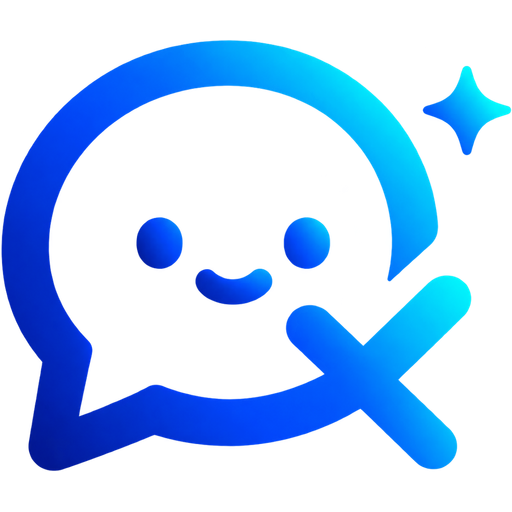
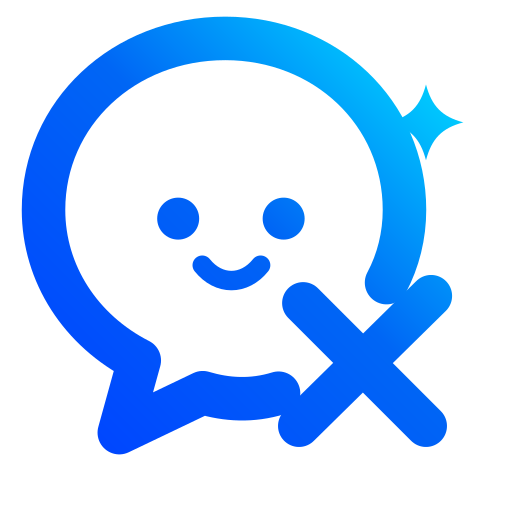
Polish Levix brand assets and control panel UI

diff --git a/public/dashboard.css b/public/dashboard.css
@@ -3,17 +3,17 @@
    choice in localStorage and stamps data-theme on <html>. */
 
 :root {
-  --blue: #1652f0;
-  --blue-bright: #14a6ff;
-  --cyan: #21d4fd;
+  --blue: #0066f5;
+  --blue-bright: #3d8bff;
+  --cyan: #00d4ff;
   --grad: linear-gradient(135deg, var(--blue) 0%, var(--blue-bright) 55%, var(--cyan) 100%);
 
-  --bg: #070d1c;
-  --bg-soft: #0b142a;
-  --panel: #0e1a33;
-  --panel-hover: #16234180;
-  --line: #1d2c4d;
-  --line-soft: #16223c;
+  --bg: #04070e;
+  --bg-soft: #070c17;
+  --panel: #0a101e;
+  --panel-hover: #111a2e;
+  --line: #1c2a48;
+  --line-soft: #16213a;
 
   --text: #eaf1ff;
   --muted: #8ea3c9;
@@ -26,11 +26,12 @@
 
   --radius: 14px;
   --radius-sm: 9px;
-  --shadow: 0 10px 30px rgba(0, 0, 0, 0.35);
+  --shadow: 0 14px 36px rgba(0, 0, 0, 0.24);
   --mono: ui-monospace, SFMono-Regular, "SF Mono", Menlo, Consolas, monospace;
 }
 
 :root[data-theme="light"] {
+  color-scheme: light;
   --bg: #f5f7fc;
   --bg-soft: #ffffff;
   --panel: #ffffff;
@@ -41,7 +42,7 @@
   --text: #0d1730;
   --muted: #566484;
   --faint: #8492ad;
-  --shadow: 0 8px 24px rgba(16, 34, 74, 0.08);
+  --shadow: 0 10px 28px rgba(16, 34, 74, 0.07);
 }
 
 * {
@@ -55,6 +56,10 @@ body {
   height: 100%;
 }
 
+html {
+  color-scheme: dark;
+}
+
 body {
   background: var(--bg);
   color: var(--text);
@@ -63,6 +68,16 @@ body {
   font-size: 15px;
   line-height: 1.55;
   -webkit-font-smoothing: antialiased;
+}
+
+::selection {
+  background: color-mix(in srgb, var(--cyan) 28%, transparent);
+  color: var(--text);
+}
+
+:focus-visible {
+  outline: 2px solid var(--cyan);
+  outline-offset: 3px;
 }
 
 a {
@@ -103,13 +118,14 @@ kbd {
   display: flex;
   align-items: center;
   gap: 11px;
-  padding: 20px 18px 16px;
+  margin: 0 10px;
+  padding: 20px 8px 17px;
+  border-bottom: 1px solid var(--line-soft);
 }
 
 .brand img {
-  width: 38px;
-  height: 38px;
-  border-radius: 11px;
+  width: 40px;
+  height: 40px;
 }
 
 .brand-name {
@@ -123,6 +139,25 @@ kbd {
   color: var(--faint);
   text-transform: uppercase;
   letter-spacing: 0.09em;
+}
+
+.brand-lockup {
+  display: inline-flex;
+  align-items: center;
+  justify-content: center;
+  gap: 11px;
+  color: var(--text);
+}
+
+.brand-lockup img {
+  width: 46px;
+  height: 46px;
+}
+
+.brand-lockup strong {
+  font-size: 1.65rem;
+  font-weight: 750;
+  letter-spacing: -0.04em;
 }
 
 .nav {
@@ -208,9 +243,10 @@ kbd {
 }
 
 .content {
-  padding: 26px;
-  max-width: 1180px;
+  padding: 30px;
+  max-width: 1240px;
   width: 100%;
+  margin: 0 auto;
 }
 
 .view {
@@ -330,7 +366,7 @@ kbd {
   border: 1px solid var(--line);
   border-radius: var(--radius);
   padding: 18px;
-  box-shadow: var(--shadow);
+  box-shadow: none;
 }
 
 .card + .card {
@@ -360,6 +396,8 @@ kbd {
 
 .section-head {
   margin-bottom: 18px;
+  padding-inline-start: 13px;
+  border-inline-start: 2px solid var(--blue-bright);
 }
 
 .section-head h2 {
@@ -443,6 +481,7 @@ select:focus,
 textarea:focus {
   outline: none;
   border-color: var(--blue-bright);
+  box-shadow: 0 0 0 3px color-mix(in srgb, var(--blue-bright) 14%, transparent);
 }
 
 textarea {
@@ -774,6 +813,16 @@ td.wrap {
   display: none;
 }
 
+.sidebar-backdrop {
+  display: none;
+  position: fixed;
+  inset: 0;
+  z-index: 50;
+  border: 0;
+  background: rgba(2, 5, 12, 0.64);
+  backdrop-filter: blur(2px);
+}
+
 @media (max-width: 900px) {
   .shell {
     grid-template-columns: 1fr;
@@ -792,6 +841,10 @@ td.wrap {
     transform: none;
   }
 
+  .sidebar-backdrop.open {
+    display: block;
+  }
+
   .menu-btn {
     display: inline-flex;
   }
@@ -802,5 +855,27 @@ td.wrap {
 
   .topbar {
     padding: 12px 14px;
+  }
+}
+
+@media (max-width: 600px) {
+  .topbar {
+    gap: 8px;
+  }
+
+  .topbar h1 {
+    display: none;
+  }
+
+  .topbar .pill {
+    padding-inline: 9px;
+  }
+
+  .stats {
+    grid-template-columns: repeat(2, minmax(0, 1fr));
+  }
+
+  .grid-2 {
+    grid-template-columns: 1fr;
   }
 }

diff --git a/public/dashboard.js b/public/dashboard.js
@@ -88,7 +88,12 @@
 
   function applyTheme(theme) {
     document.documentElement.setAttribute("data-theme", theme);
-    $("#theme-btn").textContent = theme === "light" ? "☾" : "☀";
+    const button = $("#theme-btn");
+    button.textContent = theme === "light" ? "☾" : "☀";
+    button.setAttribute(
+      "aria-label",
+      theme === "light" ? "Switch to dark theme" : "Switch to light theme"
+    );
     try {
       localStorage.setItem(THEME_KEY, theme);
     } catch {
@@ -118,6 +123,16 @@
   const VIEWS = {};
   let currentView = null;
 
+  function setSidebar(open) {
+    $(".sidebar").classList.toggle("open", open);
+    $("#sidebar-backdrop").classList.toggle("open", open);
+    $("#menu-btn").setAttribute("aria-expanded", String(open));
+    $("#menu-btn").setAttribute(
+      "aria-label",
+      open ? "Close navigation" : "Open navigation"
+    );
+  }
+
   function show(name) {
     const target = VIEWS[name] ? name : "overview";
     currentView = target;
@@ -129,7 +144,7 @@
       link.classList.toggle("active", link.dataset.view === target)
     );
     $("#page-title").textContent = VIEWS[target].title;
-    $(".sidebar").classList.remove("open");
+    setSidebar(false);
 
     VIEWS[target].load();
   }
@@ -146,8 +161,12 @@
       show(window.location.hash.slice(1))
     );
     $("#menu-btn").addEventListener("click", () =>
-      $(".sidebar").classList.toggle("open")
+      setSidebar(!$(".sidebar").classList.contains("open"))
     );
+    $("#sidebar-backdrop").addEventListener("click", () => setSidebar(false));
+    window.addEventListener("keydown", (event) => {
+      if (event.key === "Escape") setSidebar(false);
+    });
     $("#refresh-btn").addEventListener("click", () => {
       VIEWS[currentView].load();
       loadStats();
